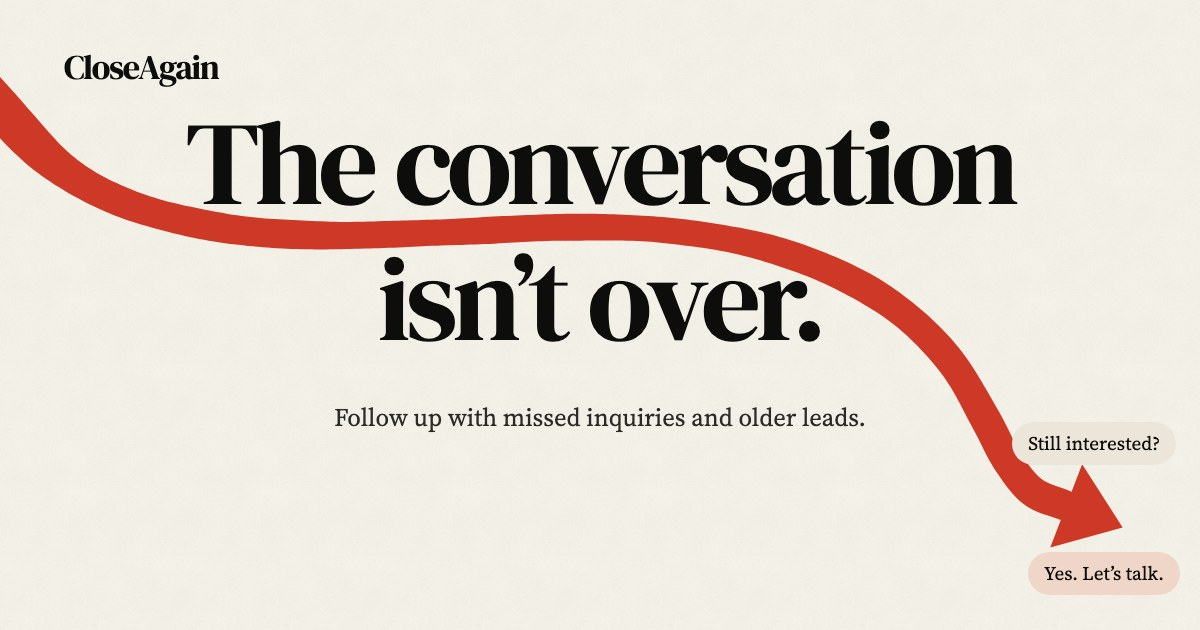
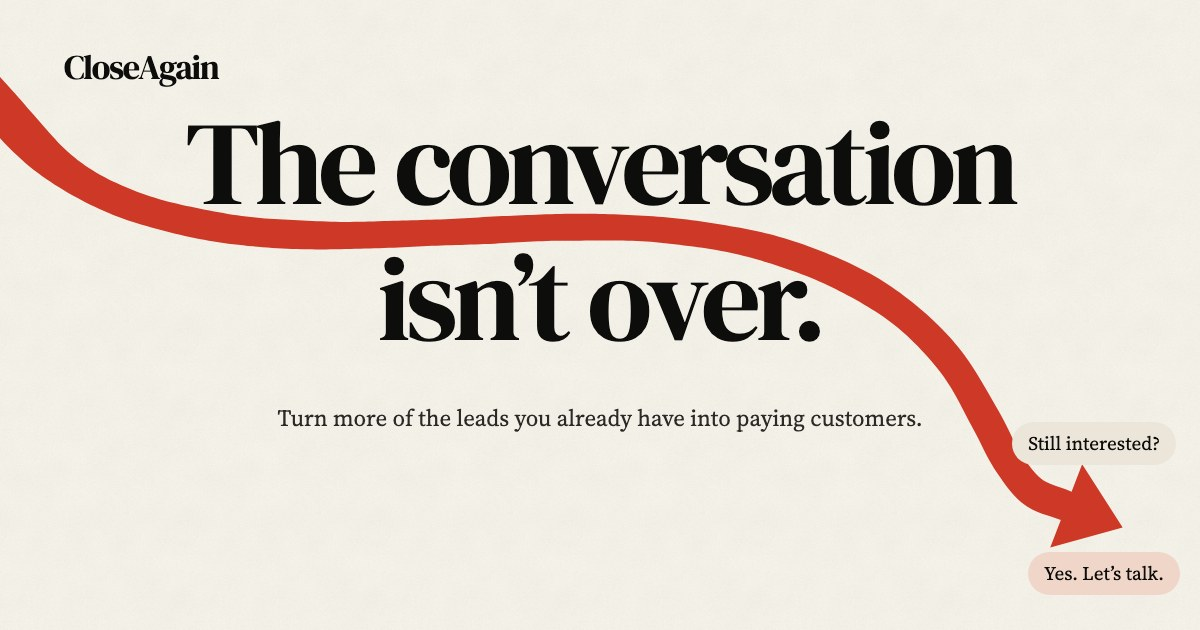
Polish: form first on phones, current share card, security headers, tighter closings
- Contact: the form follows the introduction in reading order, so phones
  reach it in the first screen; desktop keeps the two-column layout
- Share card carries the current value line; fuller alt text
- Security headers: no framing, same-origin form posts, nosniff, a strict
  referrer and permissions policy (compatible with static prerendering)
- Closing calls to action stack: full-measure title, then the decision
- Worked example header sits beside its title on wide screens; no repeated
  Illustrative label
- Features: each job's product view stays beside its details
- Sample sequence lists events in order; the second follow-up is not sent
  after the reply
- Features overview titles are plain text, so the heading outline holds

Changed region(s): [[0.2467, 0.6333, 0.7708, 0.6937]]

diff --git a/components/previews/Previews.tsx b/components/previews/Previews.tsx
@@ -125,10 +125,9 @@ function IntakePreview() {
 /* ── Sequence: scheduled follow-ups, a reply, and what happens next ────── */
 
 function SequencePreview() {
-  const steps = [
-    { when: 'Instantly', title: 'Welcome message', state: 'Sent · 9:13 AM', icon: Send, tone: 'ink' as const },
-    { when: 'Day 1 · 9:00 AM', title: 'Follow-up #1', state: 'Sent', icon: Send, tone: 'ink' as const },
-    { when: 'Day 3 · 10:00 AM', title: 'Follow-up #2', state: 'Scheduled', icon: Clock, tone: 'cold' as const },
+  const sent = [
+    { when: 'Instantly', title: 'Welcome message', state: 'Sent · 9:13 AM' },
+    { when: 'Day 1 · 9:00 AM', title: 'Follow-up #1', state: 'Sent' },
   ]
   return (
     <Frame title="Automation · New lead follow-up" className="pv--sequence">
@@ -137,25 +136,31 @@ function SequencePreview() {
         <span className="pv-toolbar__meta">3 steps · stops when the lead replies</span>
       </div>
       <ol className="pv-steps">
-        {steps.map((step, i) => (
+        {sent.map((step, i) => (
           <li key={step.title} className="pv-step" style={stagger(i)} data-scroll="rise">
-            <IconChip icon={step.icon} tone={step.tone} />
+            <IconChip icon={Send} tone="ink" />
             <span className="pv-step__main">
               <span className="pv-step__when">{step.when}</span>
               <span className="pv-step__title">{step.title}</span>
             </span>
-            <span className={['ui-badge', step.tone === 'cold' ? 'ui-badge--cold' : 'ui-badge--plain'].join(' ')}>
-              {step.state}
-            </span>
+            <span className="ui-badge ui-badge--plain">{step.state}</span>
           </li>
         ))}
-        <li className="pv-step pv-step--reply" style={stagger(3)} data-scroll="rise">
+        <li className="pv-step pv-step--reply" style={stagger(2)} data-scroll="rise">
           <IconChip icon={MessageSquareReply} tone="red" />
           <span className="pv-step__main">
             <span className="pv-step__when">Day 2 · 4:41 PM</span>
-            <span className="pv-step__title">Reply detected — sequence paused</span>
+            <span className="pv-step__title">Reply detected — sequence stopped</span>
           </span>
           <span className="ui-badge ui-badge--red">Reply</span>
+        </li>
+        <li className="pv-step" style={stagger(3)} data-scroll="rise">
+          <IconChip icon={Clock} tone="cold" />
+          <span className="pv-step__main">
+            <span className="pv-step__when">Day 3 · 10:00 AM</span>
+            <span className="pv-step__title">Follow-up #2</span>
+          </span>
+          <span className="ui-badge ui-badge--cold">Not needed</span>
         </li>
         <li className="pv-step" style={stagger(4)} data-scroll="rise">
           <IconChip icon={ArrowRight} tone="ink" />
@@ -174,10 +179,8 @@ function SequencePreview() {
         </li>
       </ol>
       <div className="pv-message" data-scroll="rise" style={stagger(2)}>
-        <span className="pv-message__label">Sent message</span>
-        <p className="pv-message__text">
-          “Hi Jordan — just checking in. Would a quick call this week help you decide?”
-        </p>
+        <span className="pv-message__label">Sent message · Follow-up #1</span>
+        <p className="pv-message__text">“Hi Jordan — just checking in. Would a quick call this week help you decide?”</p>
       </div>
     </Frame>
   )

diff --git a/components/forms/FormPage.tsx b/components/forms/FormPage.tsx
@@ -3,9 +3,11 @@ import { Ribbon } from '@/components/art/Ribbon'
 import { formSweep } from '@/components/art/ribbons'
 
 /**
- * Split layout for a page built around a form: copy and ribbon on the left,
- * the form on the right. Stacks copy-first on small screens. The copy column
- * is a size container, so the title is sized to the column it sits in.
+ * Split layout for a page built around a form. Reading order is intro, form,
+ * then the supporting detail, so on a phone the form arrives right after the
+ * introduction instead of below the fold. From 960px the intro and detail
+ * share the left column (with the ribbon) and the form sits on the right.
+ * The intro is a size container, so the title is sized to its column.
  */
 export function FormPage({
   id,
@@ -22,6 +24,16 @@ export function FormPage({
   aside?: ReactNode
   form: ReactNode
 }) {
+  const ribbon = (
+    <Ribbon
+      id={`${id}-sweep`}
+      className="form-page__ribbon"
+      viewBox={formSweep.viewBox}
+      spec={formSweep.spec}
+      preserveAspectRatio="xMaxYMid meet"
+      draw="scroll"
+    />
+  )
   return (
     <section className="form-page" aria-labelledby="page-title">
       <div className="form-page__inner wrap">
@@ -31,17 +43,15 @@ export function FormPage({
             {title}
           </h1>
           <p className="form-page__lede">{lede}</p>
-          {aside}
-          <Ribbon
-            id={`${id}-sweep`}
-            className="form-page__ribbon"
-            viewBox={formSweep.viewBox}
-            spec={formSweep.spec}
-            preserveAspectRatio="xMaxYMid meet"
-            draw="scroll"
-          />
+          {!aside && ribbon}
         </div>
         <div className="form-page__form">{form}</div>
+        {aside && (
+          <div className="form-page__aside">
+            {aside}
+            {ribbon}
+          </div>
+        )}
       </div>
     </section>
   )

diff --git a/styles/pages.css b/styles/pages.css
@@ -87,14 +87,40 @@
   display: none;
 }
 
+/* The detail beside the form keeps its own rhythm when it follows the form. */
+.form-page__aside {
+  position: relative;
+  min-width: 0;
+}
+
 @media (min-width: 960px) {
   .form-page__inner {
     grid-template-columns: minmax(0, 1fr) minmax(24rem, 33rem);
+    grid-template-rows: auto 1fr;
     column-gap: clamp(3rem, 6vw, 7rem);
-    align-items: stretch;
+    row-gap: 0;
+    align-items: start;
   }
 
   .form-page__copy {
+    grid-column: 1;
+    grid-row: 1;
+  }
+
+  .form-page__aside {
+    grid-column: 1;
+    grid-row: 2;
+    align-self: stretch;
+    padding-bottom: 14rem;
+  }
+
+  .form-page__form {
+    grid-column: 2;
+    grid-row: 1 / span 2;
+  }
+
+  /* Without detail, the intro itself makes room for the ribbon. */
+  .form-page__copy:has(> .form-page__ribbon) {
     padding-bottom: 14rem;
   }
 
@@ -444,6 +470,20 @@
 
 .feature-overview {
   margin-top: clamp(2.25rem, 5vw, 3.5rem);
+}
+
+/* Each job's details run longer than its product view, so on wide screens the
+   view starts level with the title and stays in sight while the details
+   scroll past it — within its own row, so nothing is pinned. */
+@media (min-width: 760px) {
+  .trail-section--features .trail__row {
+    align-items: start;
+  }
+
+  .trail-section--features .trail__visual {
+    position: sticky;
+    top: calc(var(--header-h) + 2rem);
+  }
 }
 
 /* One job on the features page: the problem, the capabilities, the limits. */
@@ -1045,7 +1085,12 @@
 .buy-aside {
   display: grid;
   gap: 2rem;
-  margin-top: 2rem;
+}
+
+@media (min-width: 960px) {
+  .buy-aside {
+    margin-top: 2rem;
+  }
 }
 
 .buy-terms {

diff --git a/next.config.ts b/next.config.ts
@@ -6,6 +6,26 @@ const nextConfig: NextConfig = {
   poweredByHeader: false,
   // Pin the workspace root so Turbopack does not walk up to a parent lockfile.
   turbopack: { root: path.resolve(process.cwd()) },
+  // Baseline protections that work with statically prerendered pages. A
+  // script-restricting CSP would need per-request nonces (dynamic rendering),
+  // so this policy limits framing, form targets, <base> and plugins instead.
+  async headers() {
+    return [
+      {
+        source: '/:path*',
+        headers: [
+          { key: 'X-Content-Type-Options', value: 'nosniff' },
+          { key: 'Referrer-Policy', value: 'strict-origin-when-cross-origin' },
+          { key: 'X-Frame-Options', value: 'DENY' },
+          { key: 'Permissions-Policy', value: 'camera=(), microphone=(), geolocation=(), payment=(), usb=()' },
+          {
+            key: 'Content-Security-Policy',
+            value: "frame-ancestors 'none'; base-uri 'self'; form-action 'self'; object-src 'none'",
+          },
+        ],
+      },
+    ]
+  },
   // Renamed pages keep their old addresses working.
   async redirects() {
     return [

diff --git a/styles/home.css b/styles/home.css
@@ -652,6 +652,29 @@
   color: var(--ink-2);
 }
 
+/* Wide screens: the explanation sits beside the title, as in the two jobs. */
+@media (min-width: 1100px) {
+  .example__head {
+    display: grid;
+    grid-template-columns: minmax(0, 1fr) minmax(0, 27rem);
+    column-gap: clamp(3rem, 6vw, 6rem);
+    align-items: end;
+    max-width: none;
+  }
+
+  .example__head .eyebrow {
+    grid-column: 1 / -1;
+  }
+
+  .example__title {
+    grid-row: 2 / span 2;
+  }
+
+  .example__lede {
+    margin: 0;
+  }
+}
+
 .example__disclaimer {
   display: flex;
   flex-wrap: wrap;

diff --git a/styles/editorial.css b/styles/editorial.css
@@ -207,7 +207,7 @@
 
 .closing__body {
   margin: 1.25rem 0 0;
-  max-width: 30rem;
+  max-width: 42rem;
   font-size: var(--text-lede);
   color: var(--ink-2);
 }
@@ -236,13 +236,13 @@
 }
 
 @media (min-width: 900px) {
-  .closing__inner {
-    grid-template-columns: minmax(0, 1fr) auto;
-    column-gap: 4rem;
+  /* One column: the line gets the full measure, the decision sits under it. */
+  .closing__title {
+    max-width: 15em;
   }
 
-  .closing__actions {
-    padding-bottom: 0.6rem;
+  .closing__inner {
+    gap: 2.25rem;
   }
 
   .closing--with-art {

diff --git a/content/home.ts b/content/home.ts
@@ -94,7 +94,7 @@ export const home = {
     eyebrow: 'A worked example',
     title: 'From inquiry to booked appointment.',
     lede: 'One lead, one thread: what CloseAgain does on its own, and where your team takes over.',
-    note: 'Illustrative example — the lead, the business and the timings are fictional.',
+    note: 'The lead, the business and the timings are fictional.',
     lead: { name: 'Jordan Ellis', initials: 'JE', context: 'Kitchen remodel · Website form' },
     steps: [
       {

diff --git a/app/opengraph-image.tsx b/app/opengraph-image.tsx
@@ -6,7 +6,7 @@ import { join } from 'node:path'
  * bubbles — rendered once from the site's own fonts and ribbon geometry and
  * stored as og-card.jpg. Re-render it if the hero changes.
  */
-export const alt = 'CloseAgain — The conversation isn’t over.'
+export const alt = 'CloseAgain — The conversation isn’t over. Turn more of the leads you already have into paying customers.'
 export const size = { width: 1200, height: 630 }
 export const contentType = 'image/jpeg'
 

diff --git a/app/(marketing)/features/page.tsx b/app/(marketing)/features/page.tsx
@@ -32,7 +32,7 @@ export default function FeaturesPage() {
         </nav>
       </PageIntro>
 
-      <section className="trail-section" aria-label="Features, job by job">
+      <section className="trail-section trail-section--features" aria-label="Features, job by job">
         <div className="wrap">
           <Trail
             id="features"
